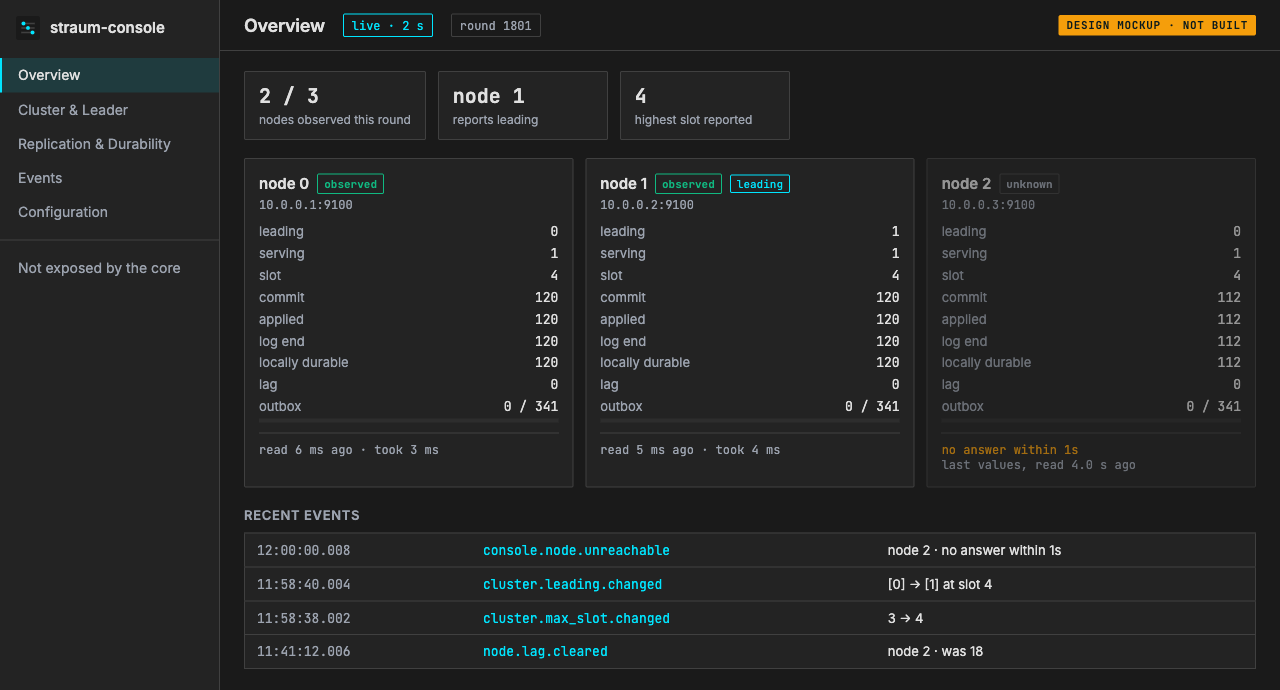
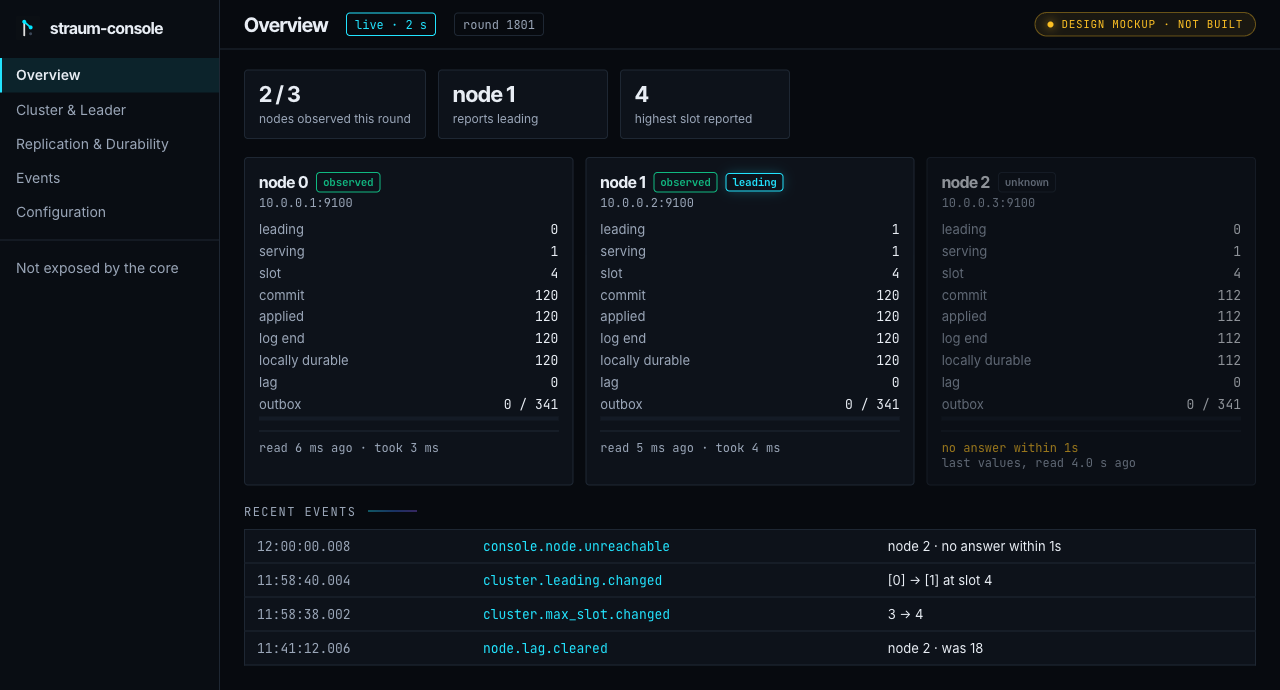
Follow straum-docs 17cfc25: new mark and mockup, link the docs site

diff --git a/README.md b/README.md
@@ -74,8 +74,10 @@ three-node cluster built from a core checkout at `../straum`.
 - [docs/state-json.md](docs/state-json.md): the read-only JSON API, version 1.
 - [Straum](https://github.com/straum-io/straum): the broker, and its
   [metrics endpoint](https://github.com/straum-io/straum/blob/main/docs/configuration.md).
-- The look comes from the Straum docs site, which is not published yet:
-  the same colors and fonts (`src/styles/tokens.css` in straum-docs), dark
-  by default.
+- [The console's page](https://straum-io.github.io/straum-docs/ecosystem/straum-console/)
+  on the Straum docs site. The console takes the site's look: the colors
+  and fonts of [`tokens.css`](https://github.com/straum-io/straum-docs/blob/17cfc25/src/styles/tokens.css)
+  at straum-docs `17cfc25`,
+  dark by default.
 
 Apache License 2.0.
